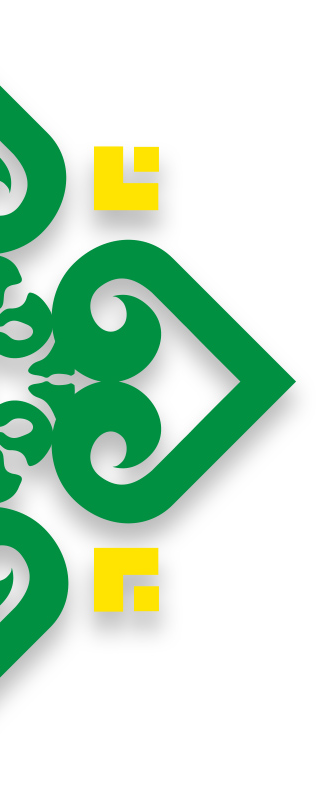
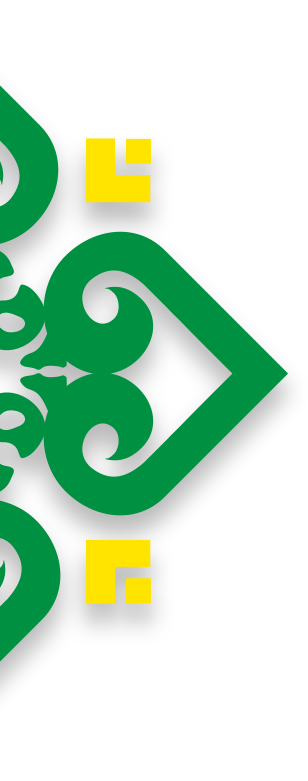
paralax

diff --git a/src/components/welcome/welcome.scss b/src/components/welcome/welcome.scss
@@ -1,9 +1,10 @@
 .-welcome {
-    @media (min-width: 640px) {
-        background: url('../images/decor/decor_welcome-left-bg.png') left no-repeat, url('../images/decor/decor_welcome-right-bg.png') right no-repeat;
-    }
+    // @media (min-width: 640px) {
+    //     // background: url('../images/decor/decor_welcome-left-bg.png') left no-repeat, url('../images/decor/decor_welcome-right-bg.png') right no-repeat;
+    // }
     @media (min-width: 1000px) {
-        background: url('../images/decor/decor_welcome-left-bg.png') left -17px no-repeat;
+        background: url(../images/decor/decor_welcome-left-bg.png) -87px 2px no-repeat;
+        z-index: -1;
     }
 }
 
@@ -17,17 +18,21 @@
 
 .-welcome .welcome {
     grid-area: logo;
-    min-height: 718px;
+    min-height: 750px;
     width: fit-content;
     display: flex;
     align-items: center;
-    
+    padding-top: 50px;
     @media (min-width: 1250px) {
         width: unset;
         min-height: auto;
         margin-top: 178px;
         margin-bottom: 122px;
+        padding-top: 0;
     }
+}
+.-welcome .-inner {
+    margin-bottom: 0;
 }
 .-welcome .welcome__top {
     display: flex;
@@ -89,8 +94,10 @@
     margin-top: 53px;
     grid-area: c;
     order: 2;
+    margin-bottom: 120px;
     @media (min-width: 1250px) {
         order: 1;
+        margin-bottom: 0;
     }
 }
 
@@ -122,12 +129,14 @@
     position: absolute;
     z-index: -1;
     right: -370px;
+    animation: 3s 1.5s move infinite alternate ease-out;
 }
 .-welcome .decor img:nth-child(3) {
     position: absolute;
-    z-index: -1;    
-    right: -327px;
+    z-index: -2;    
+    right: -736px;
     top: 0;
+    animation: 3s 3s move infinite alternate ease-out;
 }
 @keyframes move {
     from {
@@ -142,15 +151,41 @@
     opacity: .3;
     @media (min-width: 1000px) {
         display: block;
-        animation: 2s move infinite alternate ease-out;
+        animation: 3s move infinite alternate ease-out;
         opacity: 1;
     }
 }
 * + .-welcome {
     overflow-x: hidden;
     margin-top: 0 !important;
+    margin-bottom: 0;
+    padding-bottom: 0;
 }
 
 .-welcome .-inner {
     margin-top: 0 !important;
+}
+
+.-welcome .recommendation {
+    position: absolute;
+    left: 50%;
+    bottom: 0;
+    transform: translateX(-50%);
+    max-width: 476px;
+    width: 100%;
+    background: url('../images/welcome-covid.png') left bottom no-repeat, #F8FCFF;
+    background-size: contain;
+    box-shadow: 0px 0px 49px 0px rgba(255, 255, 255, 0.72) inset;
+    padding: 10px 10px 10px 110px;
+    border-radius: 20px 20px 0 0;
+    @media (min-width: 500px) {
+        padding: 22px 52px 22px 110px;    
+    }
+    p {
+        font-weight: 700;
+        font-size: 16px;
+        line-height: 24px;
+        text-align: center;
+        color: #051E48;
+    }
 }

diff --git a/src/components/speaker/speaker.scss b/src/components/speaker/speaker.scss
@@ -1,10 +1,26 @@
 .-speaker {
-    background: url('../images/decor/background-who-goes.png') center no-repeat;
+    // background: url('../images/decor/background-who-goes.png') center no-repeat;
+    position: relative;
+    z-index: 2;
+}
+.-speaker .bgparalax {
+    left: 0;
+    top: 0;
+    bottom: 0;
+    right: 0;
+    object-fit: cover;
+    position: absolute;
+    z-index: -2;
+}
+.-speaker .bgparalax2 {
+    display: none;
 }
 @media (min-width: 1600px) {
-    .-speaker {
-        background: url('../images/decor/decor_right-bg.png') left no-repeat, url('../images/decor/background-who-goes.png') center no-repeat;
-    }        
+    .-speaker .bgparalax2 {
+        display: block;
+        left: 0;
+        position: absolute;
+    }    
 }
 
 .-speaker-list > :not(:empty) {

diff --git a/src/components/about/about.scss b/src/components/about/about.scss
@@ -1,7 +1,7 @@
 .-about {
     background: rgba(248, 252, 255, 1);
     @media (min-width: 640px) {
-        background: url('../images/decor/decor_welcome-left-bg.png') left no-repeat, url('../images/decor/decor_welcome-right-bg.png') right no-repeat, rgba(248, 252, 255, 1);
+        background: url('../images/decor/welcome-decor-bg.png') left no-repeat, url('../images/decor/decor_welcome-right-bg.png') right no-repeat, rgba(248, 252, 255, 1);
     }
 }
 

diff --git a/src/components/who-goes/who-goes.scss b/src/components/who-goes/who-goes.scss
@@ -1,6 +1,16 @@
 .-who-goes {
-  background: url('../images/decor/background-who-goes.png') center no-repeat, rgba(248, 252, 255, 1);
-  background-size: cover;
+  background: rgba(248, 252, 255, 1);
+  position: relative;
+//   background-size: cover;
+}
+.-who-goes .bgparalax {
+  left: 0;
+  top: 0;
+  bottom: 0;
+  right: 0;
+  object-fit: cover;
+  position: absolute;
+  z-index: -1;
 }
 .-who-goes .bg
 { background: #008545;

diff --git a/src/components/components.js b/src/components/components.js
@@ -1,5 +1,8 @@
+// import simpleParallax from 'simple-parallax-js';
+
 // Form
 // import './form/form'
+import './who-goes/who-goes'
 
 // Hamburger
 //import './hamburger/hamburger'

diff --git a/src/components/who-goes/who-goes.js b/src/components/who-goes/who-goes.js
@@ -1,0 +1,6 @@
+const image = document.getElementsByClassName('bgparalax');
+new simpleParallax(image, {
+    orientation: 'down',
+    scale: 1.8,
+    overflow: true,
+});
